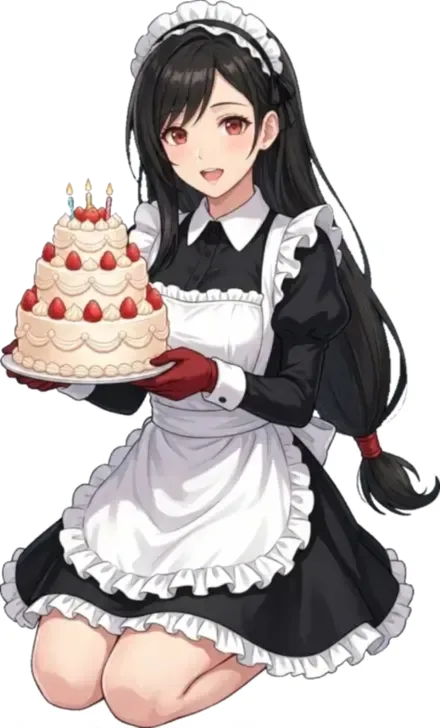
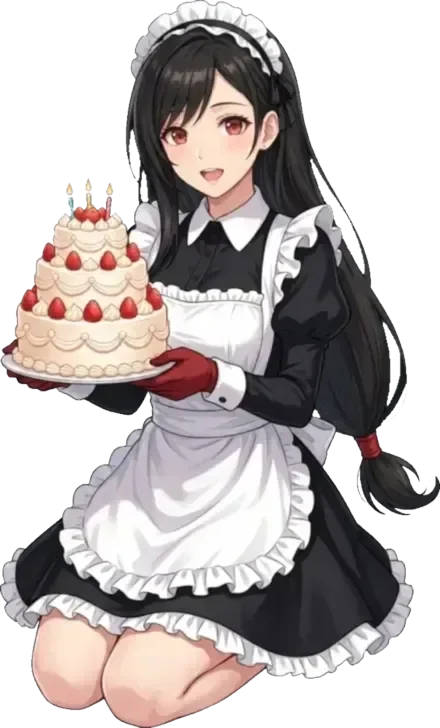
fix(birthday): tách nền đúng cho frame nói + nâng cấp biểu cảm
LỖI: nền ảnh AI sinh ra không phải trắng đều (có vignette xám ~197 ở rìa)
nên floodfill dừng giữa chừng, để lại nền trắng đục che cả khung cảnh.
Tỉ lệ pixel đục 89,8% so với 61,4% của ảnh gốc.

Sửa: dùng lại chính alpha mask của ảnh gốc (các frame đã khớp pixel tuyệt
đối nên mask dùng chung được). Cả 2 frame giờ đúng 61,4142%.

Nâng cấp:
- Nhịp nói có 'nghỉ lấy hơi': ~12% khả năng ngừng 1-3 nhịp rồi nói tiếp,
  thay vì đổi frame đều tăm tắp như máy.
- Biểu cảm khi im: lớp idle-smile (CSS, 11s) thỉnh thoảng mỉnh cười nhẹ.
- Nạp sẵn cả 3 frame ngay cả khi im (opacity 0) để lần nói đầu không chờ
  giải mã ảnh.
- Bong bóng thoại: hạ xuống sát nhân vật, thu nhỏ chữ trên màn hình <420px
  để không dính mép trên.

Kiểm tra: tất cả 7 ảnh nhân vật đều có nền trong suốt đúng (47-61% đục).
tsc sạch, build OK.

diff --git a/src/components/birthday/TalkingMaidSprite.tsx b/src/components/birthday/TalkingMaidSprite.tsx
@@ -53,16 +53,32 @@ export const TalkingMaidSprite = memo(function TalkingMaidSprite({ active, alt =
 
     let timer = 0;
     let alive = true;
+    /**
+     * Đôi khi cô ấy ngừng nói giữa chừng (nghỉ lấy hơi) rồi nói tiếp.
+     * Nhịp đều tăm tắp sẽ trông như máy đang chạy, không giống người.
+     */
+    let pauseFor = 0;
 
     const next = () => {
       if (!alive) return;
-      // Chọn frame khác frame hiện tại (không lặp lại chính nó => luôn thấy đổi).
-      setIdx((prev) => {
-        let n = prev;
-        while (n === prev) n = Math.floor(Math.random() * FRAMES.length);
-        return n;
-      });
-      timer = window.setTimeout(next, HOLD_MIN + Math.random() * (HOLD_MAX - HOLD_MIN));
+
+      if (pauseFor > 0) {
+        // Đang nghỉ: hiện frame miệng đóng (index 1 = ảnh gốc) một nhịp.
+        setIdx(1);
+        pauseFor--;
+      } else {
+        // Chọn frame khác frame hiện tại (không lặp lại chính nó => luôn thấy đổi).
+        setIdx((prev) => {
+          let n = prev;
+          while (n === prev) n = Math.floor(Math.random() * FRAMES.length);
+          return n;
+        });
+        // ~12% khả năng nghỉ 1–3 nhịp trước khi nói tiếp
+        if (Math.random() < 0.12) pauseFor = 1 + Math.floor(Math.random() * 3);
+      }
+
+      const base = HOLD_MIN + Math.random() * (HOLD_MAX - HOLD_MIN);
+      timer = window.setTimeout(next, pauseFor > 0 ? base * 1.3 : base);
     };
 
     timer = window.setTimeout(next, HOLD_MIN);
@@ -83,19 +99,37 @@ export const TalkingMaidSprite = memo(function TalkingMaidSprite({ active, alt =
         className={className}
         style={{ visibility: active ? "hidden" : "visible" }}
       />
-      {/* Các frame nói: chồng tuyệt đối lên ảnh gốc, chỉ frame đang chọn hiện. */}
-      {active &&
-        FRAMES.map((src, i) => (
-          <img
-            key={src}
-            src={src}
-            alt=""
-            aria-hidden
-            draggable={false}
-            className={`pointer-events-none absolute inset-0 h-full w-full ${className}`}
-            style={{ opacity: i === idx ? 1 : 0 }}
-          />
-        ))}
+      {/*
+        Các frame chồng tuyệt đối lên ảnh gốc.
+        - Khi nói: luân phiên frame miệng mở.
+        - Khi im: vẫn nạp sẵn và giữ opacity 0 => lần nói sau đổi frame
+          không phải chờ tải/giải mã ảnh (tránh nháy trắng frame đầu).
+      */}
+      {FRAMES.map((src, i) => (
+        <img
+          key={src}
+          src={src}
+          alt=""
+          aria-hidden
+          draggable={false}
+          className={`pointer-events-none absolute inset-0 h-full w-full ${className}`}
+          style={{ opacity: active && i === idx ? 1 : 0 }}
+        />
+      ))}
+      {/*
+        Biểu cảm khi im: thỉnh thoảng cô ấy mỉm cười nhẹ (frame há miệng nhẹ
+        với opacity thấp trông như đang mỉm cười). Rất nhẹ => không gây chú ý,
+        nhưng khiến nhân vật không đứng yên như tượng.
+      */}
+      {!active && (
+        <img
+          src={frame1}
+          alt=""
+          aria-hidden
+          draggable={false}
+          className={`pointer-events-none absolute inset-0 h-full w-full ${className} idle-smile`}
+        />
+      )}
     </>
   );
 });

diff --git a/src/components/birthday/BirthdayWorld.tsx b/src/components/birthday/BirthdayWorld.tsx
@@ -664,7 +664,7 @@ export default function BirthdayWorld({
                       animate={{ opacity: 1, y: 0, scale: 1 }}
                       exit={{ opacity: 0, y: -6, scale: 0.96 }}
                       transition={{ type: "spring", stiffness: 220, damping: 22 }}
-                      className="pointer-events-none absolute bottom-[calc(100%-2%)] left-1/2 z-40 w-[min(78vw,300px)] -translate-x-1/2"
+                      className="pointer-events-none absolute bottom-[calc(100%-1%)] left-1/2 z-40 w-[min(84vw,290px)] -translate-x-1/2 max-[420px]:w-[72vw]"
                     >
                       <div className="relative rounded-2xl border border-rose-200/55 bg-gradient-to-b from-[#fffaf4]/96 to-[#ffeef0]/94 px-3.5 py-2.5 text-center shadow-[0_10px_32px_rgba(0,0,0,0.4)] backdrop-blur-sm">
                         <div className="mb-1 flex items-center justify-center gap-1.5">
@@ -681,8 +681,10 @@ export default function BirthdayWorld({
                             Hầu gái nói
                           </span>
                         </div>
-                        <p className="text-[13px] font-semibold leading-snug text-stone-800">{voiceCaption}</p>
-                        <p className="mt-0.5 text-[10px] leading-snug text-stone-500">
+                        <p className="text-[13px] font-semibold leading-snug text-stone-800 max-[420px]:text-[11px]">
+                          {voiceCaption}
+                        </p>
+                        <p className="mt-0.5 text-[10px] leading-snug text-stone-500 max-[420px]:text-[9px]">
                           {voiceCaption.startsWith("わぁ")
                             ? "“A, cắt giỏi quá! Đúng là chủ nhân của em.”"
                             : "“Chúc mừng sinh nhật, thưa chủ nhân!”"}

diff --git a/src/index.css b/src/index.css
@@ -786,3 +786,18 @@ html.q-min .flame-flick { animation: none !important; }
   animation: voiceWave 0.7s ease-in-out infinite;
 }
 html.q-min .voice-wave { animation: none !important; }
+
+/* Khi hầu gái im lặng: lớp "mỉm cười nhẹ" nhấp nháy rất chậm.
+   Chỉ đổi opacity trên một lớp có sẵn => compositor lo, không tốn layout. */
+@keyframes idleSmile {
+  0%, 62%, 100% { opacity: 0; }
+  74%, 88%      { opacity: 0.75; }
+}
+.idle-smile {
+  animation: idleSmile 11s ease-in-out infinite;
+  will-change: opacity;
+}
+html.q-min .idle-smile { animation: none !important; opacity: 0 !important; }
+@media (prefers-reduced-motion: reduce) {
+  .idle-smile { animation: none !important; opacity: 0 !important; }
+}

diff --git a/README.md b/README.md
@@ -328,6 +328,22 @@ Kiểm tra vùng khác biệt cũng xác nhận đúng ý đồ:
 Vùng miệng là nơi khác biệt **lớn nhất** (~3–4,5 lần các vùng khác) — đúng là
 chỉ miệng thay đổi.
 
+> **Lỗi đã gặp và cách phòng:** nền ảnh do AI sinh ra **không phải màu trắng
+> đều** (có vignette xám ~197 ở rìa), nên lệnh `floodfill` tách nền dừng lại
+> giữa chừng và để lại một tấm nền trắng đục che cả khung cảnh. Cách chắc chắn:
+> vì các frame đã khớp pixel tuyệt đối với ảnh gốc, **dùng lại chính alpha mask
+> của ảnh gốc**:
+>
+> ```bash
+> convert base.webp -alpha extract mask.png
+> convert frame.png -alpha off rgb.png
+> convert rgb.png mask.png -alpha off -compose CopyOpacity -composite out.png
+> ```
+>
+> Kiểm tra sau khi tách: tỉ lệ pixel đục của frame phải **bằng đúng** ảnh gốc
+> (`convert f.webp -alpha extract -threshold 50% -format "%[fx:mean]" info:`).
+> Nếu lệch, nền chưa được tách hết.
+
 **Nhịp đổi frame:** ngẫu nhiên 95–190 ms, và **luôn chọn frame khác frame hiện
 tại** để mắt luôn thấy thay đổi. Không dùng nhịp cố định vì sẽ trông như máy.
 
